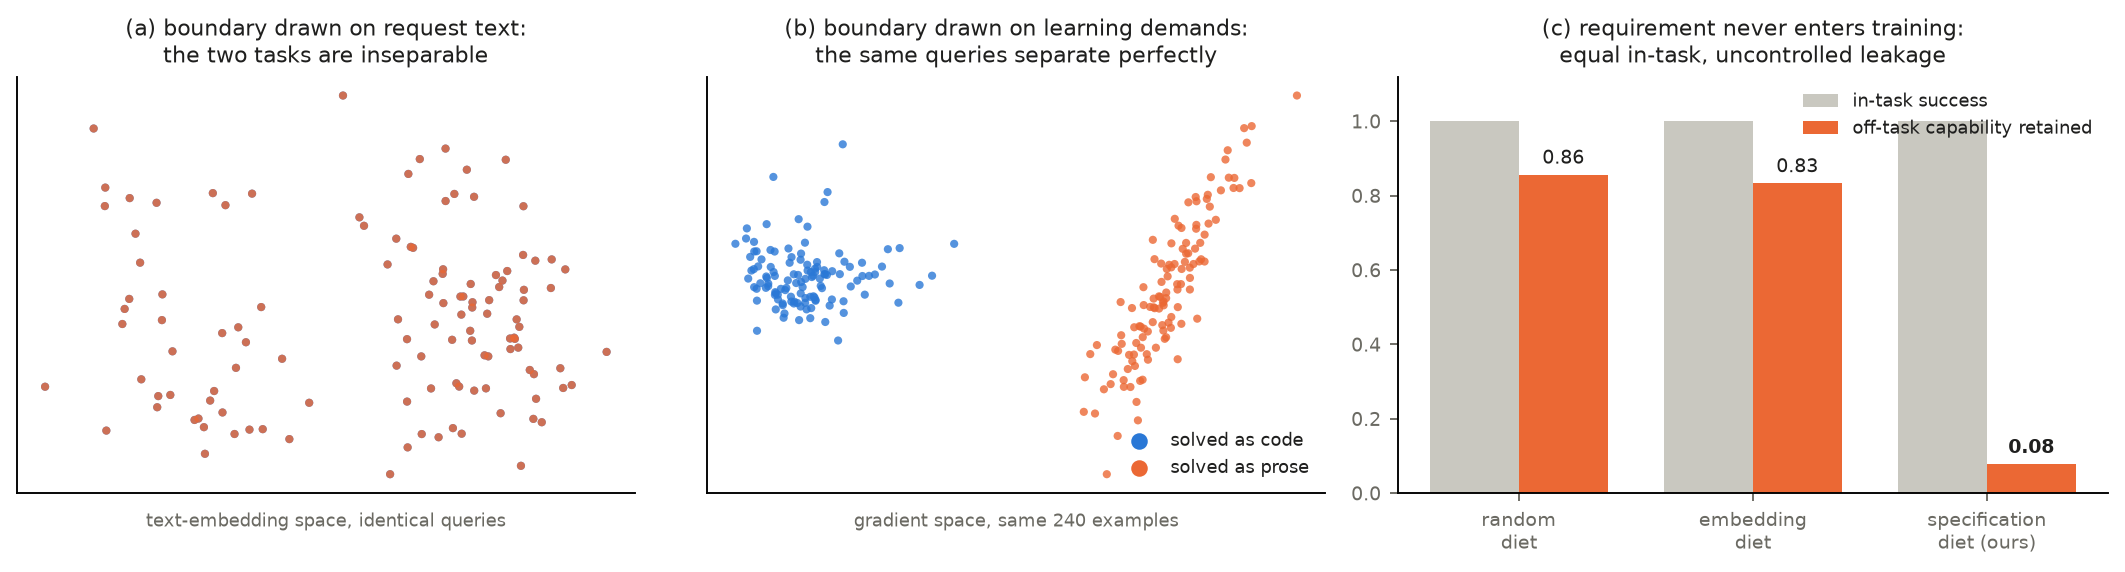
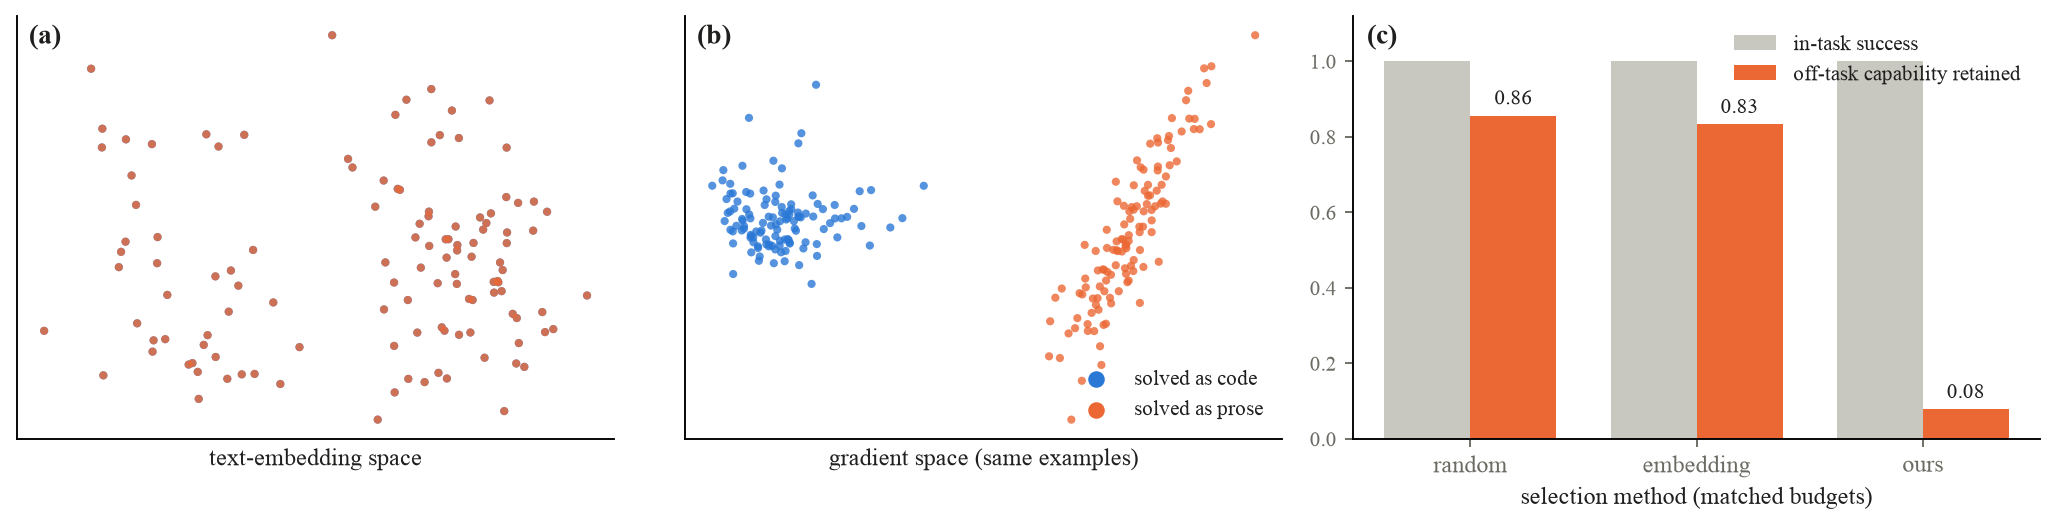
figure style normalized: Times New Roman, no in-figure titles, panel letters only, restrained palette; skill updated with normative style rules

diff --git a/envs/appworld-smoke.py b/envs/appworld-smoke.py
@@ -1,0 +1,29 @@
+"""Run one AppWorld train task with a trivial code-emitting agent."""
+
+from __future__ import annotations
+
+import json
+
+from appworld import AppWorld, load_task_ids
+
+
+def main() -> None:
+    task_id = load_task_ids("train")[0]
+    print(f"task_id={task_id}")
+
+    with AppWorld(task_id=task_id, experiment_name="smoke/trivial") as world:
+        print(f"instruction={world.task.instruction}")
+
+        # A trivial agent action in the documented code-string interface. It is
+        # expected to score poorly, but it exercises execution and evaluation.
+        code = "apis.supervisor.complete_task()"
+        print(f"agent_code={code}")
+        execution_output = world.execute(code)
+        print(f"execution_output={execution_output}")
+
+        evaluation = world.evaluate().to_dict()
+        print("evaluation_result=" + json.dumps(evaluation, sort_keys=True))
+
+
+if __name__ == "__main__":
+    main()
